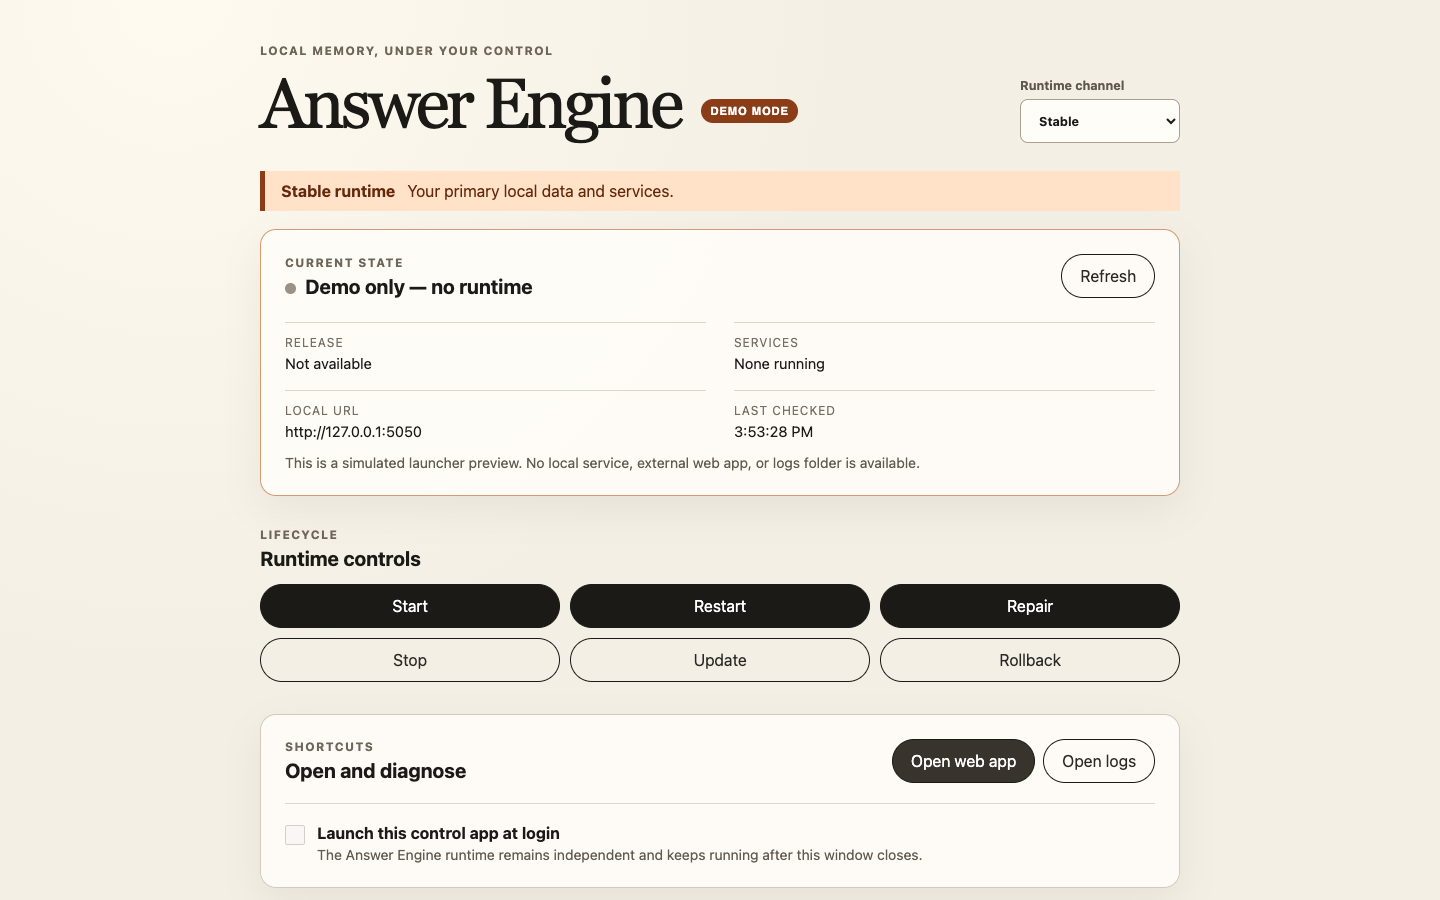
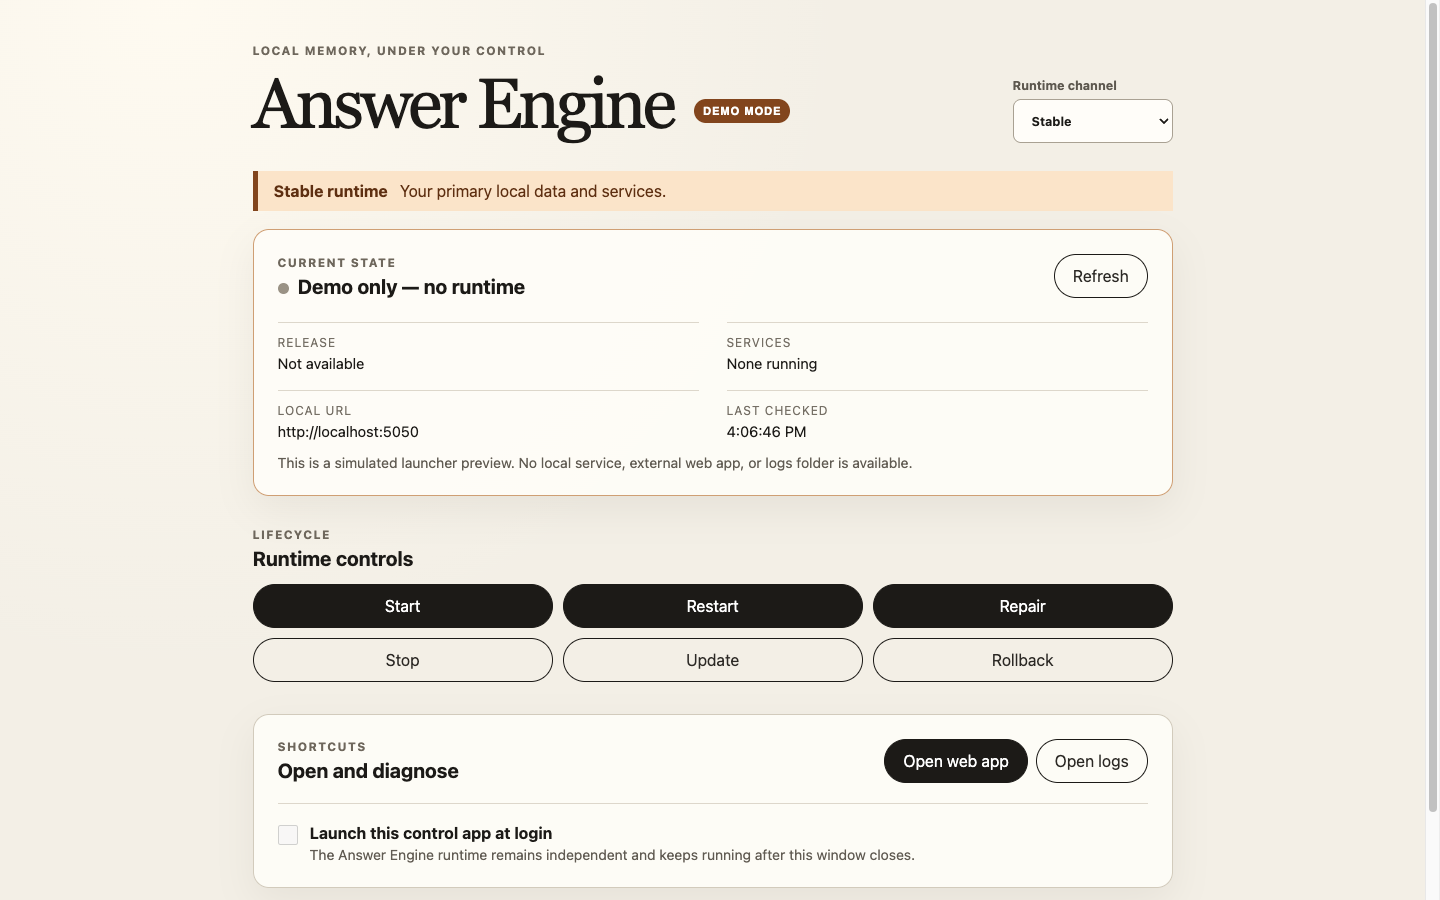
docs: record native desktop acceptance (#68)

diff --git a/docs/acceptance/issue-68.md b/docs/acceptance/issue-68.md
@@ -44,6 +44,10 @@ refusal remains unchanged.
   trigger, the mobile layout had no horizontal overflow, and reduced-motion
   styles were active. Evidence: [desktop](evidence/issue-68-desktop.png) and
   [375px mobile](evidence/issue-68-mobile.png).
+- [x] A host-launched native Electron window reported the existing stable
+  runtime healthy at port 5050, opened that web application successfully, and
+  showed staging as an independent not-installed runtime at port 5150.
+  Evidence: [real stable runtime](evidence/issue-68-real-runtime.png).
 
 ## Verification evidence
 
@@ -52,28 +56,36 @@ Executed in the isolated issue #68 worktree on 2026-08-16:
 - `CI=true pnpm install --frozen-lockfile` passed with the lockfile unchanged.
 - `pnpm verify` passed the public-boundary check; server and desktop lint/type
   checks; 117 server tests with one expected integration skip; 185 CLI tests;
-  63 MCP tests; 128 installer tests; 40 web tests; and 18 desktop tests. All
+  63 MCP tests; 129 installer tests; 40 web tests; and 18 desktop tests. All
   server, CLI, MCP, installer, web, and desktop builds passed.
 - `pnpm audit --prod --audit-level high` reported no known vulnerabilities.
 - The unsigned macOS directory package completed with sandbox-writable Electron
   caches, and `app.asar` contains the exported installer adoption module and its
   runtime dependencies.
-- The prepared `pnpm browser:ui` Chrome session exercised the built production
-  desktop renderer with a preload-compatible in-memory fixture contract. At
+- The host-launched Electron fixture exposed CDP on port 9228, and the prepared
+  repository-pinned `pnpm browser:ui` session exercised the native window and
+  real preload IPC contract. At
   1440×900, Start retained `None running`, Open web app returned its explicit
   not-opened message, and stable retained `http://127.0.0.1:5050`. Stop moved
   focus to Confirm and Cancel returned focus to Stop. At 375×812, staging used
   `http://127.0.0.1:5150`, Open logs returned its explicit not-opened message,
-  and `body.scrollWidth` equaled the 375px viewport. Emulated
+  and `body.scrollWidth` was 360px within the 375px viewport. Emulated
   `prefers-reduced-motion: reduce` matched and reduced transition/animation
-  durations to `0.001ms`.
-- Direct fixture launch remains unavailable inside the managed macOS worker:
-  both the workspace Electron binary and a valid ad-hoc-signed temporary app
-  bundle were denied before CDP port 9228 became available. The live pass
-  therefore covers the production renderer and fixture preload contract; the
-  native macOS window shell and tray still require a host-capable release
-  environment. No raw browser CLI, Playwright substitute, or unsafe launch
-  bypass was used.
+  durations to `0.001ms`. The browser console and page-error logs were empty;
+  axe reported zero WCAG A/AA violations, with gradient-dependent contrast
+  checks left incomplete.
+- A second host-launched native Electron window used the real desktop
+  controller in read-only use. It reported stable `Healthy and ready`, release
+  `answer-engine-oss:local`, services `api, postgres, redis`, and local URL
+  `http://localhost:5050`. Open web app returned `Opened the stable web app`,
+  while an independent request returned HTTP 200 and `/health` returned
+  `channel: stable`. Switching to staging reported `Not installed` at
+  `http://127.0.0.1:5150`; returning to stable remained healthy.
+- The managed worker could not launch Electron because of its macOS sandbox,
+  so native verification was completed from the host after Alpha Loop's
+  independent review passed. Every browser interaction still used the
+  repository wrapper; no raw browser CLI, Playwright substitute, or unsafe
+  launch bypass was used.
 - Installer regressions cover valid metadata-only adoption, read-only
   inspection, unchanged database/archive fixtures, unrelated occupied-port and
   unavailable-model tolerance, stable-only enforcement, wrong project/channel,
@@ -87,9 +99,10 @@ Executed in the isolated issue #68 worktree on 2026-08-16:
 
 ## Data safety
 
-All adoption tests used temporary synthetic homes. Browser verification used
-only the built production renderer, an in-memory preload-compatible fixture,
-and a temporary static server. Electron launch attempts used fixture mode and a
-temporary packaged copy. No stable runtime lifecycle command ran, and no user
-database, blob, volume, archive, credentials, or release state was read or
-changed.
+All adoption tests used temporary synthetic homes. Fixture-mode browser
+verification used the native Electron window and in-memory controller. Real
+mode was limited to status reads, channel selection, and Open web app; no
+lifecycle action ran. The stable database, blobs, volumes, archive,
+credentials, and release state were not changed. After verification, stable
+remained healthy, `~/.answer-engine/raw-archive` remained 0 B, and the host had
+approximately 1.1 TiB free.
